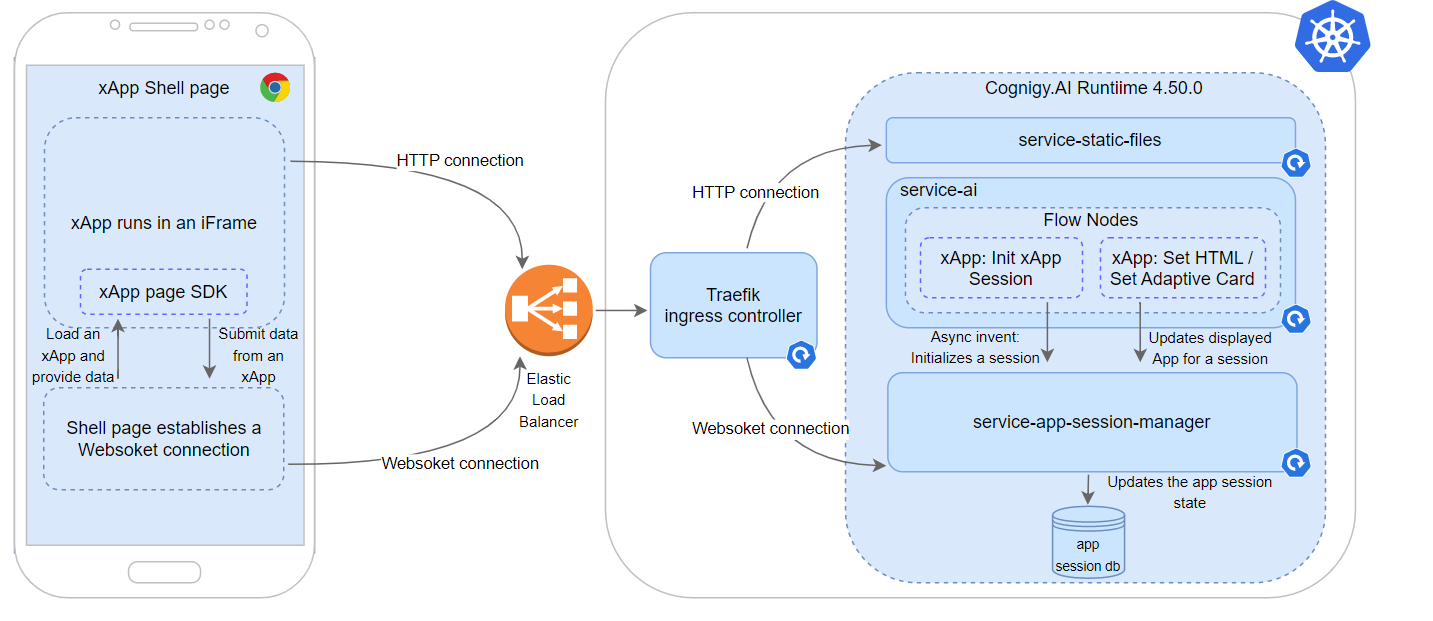
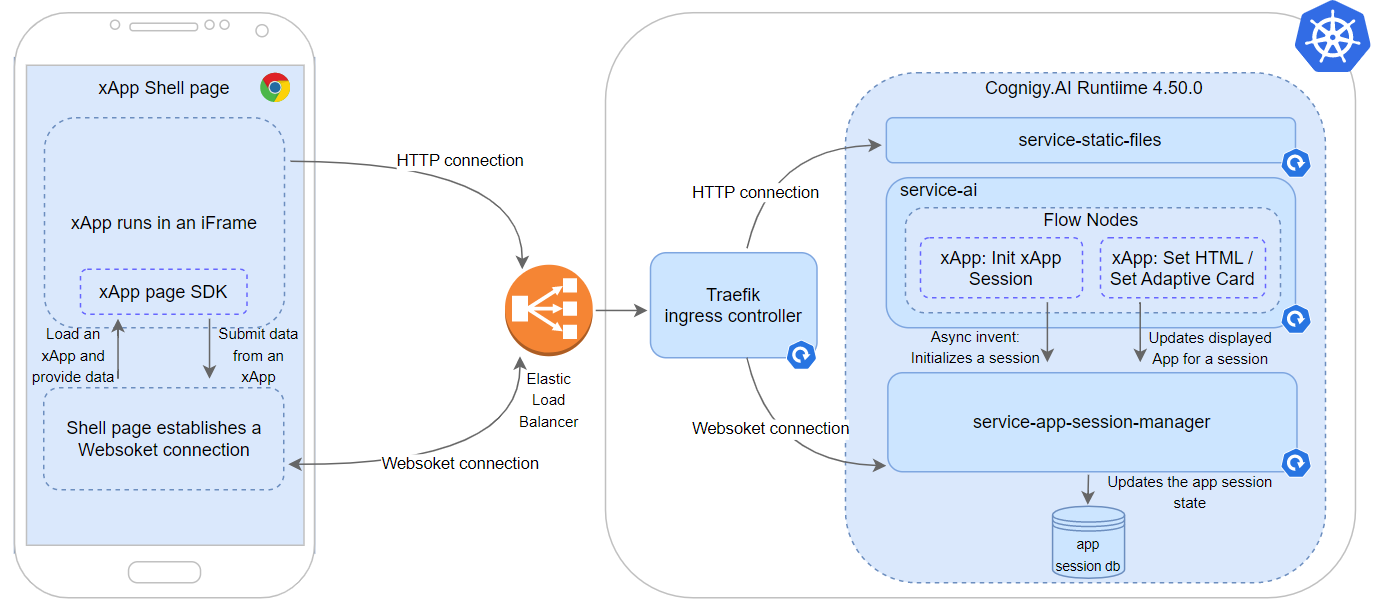
updated arch + unhided docs

diff --git a/docs/en/docs/ai/xApp/architecture.md b/docs/en/docs/ai/xApp/architecture.md
@@ -8,7 +8,9 @@ hidden: true
 
 ## xApp Deployment
 
-The xApp architecture based on Kubernetes ensures that each xApp is deployed as a containerized application, providing flexibility and scalability to handle changes in traffic and workload demands. With Kubernetes, xApps can be easily scaled up or down based on user demand, ensuring a consistent level of performance and availability.
+The xApp architecture based on Kubernetes ensures that each xApp is deployed as a containerized application, providing flexibility and scalability to handle changes in traffic and workload demands.
+
+The diagram below illustrates the process when the xApp Shell Page loads its assets (HTML/CSS/JS) by requesting static files via HTTP/HTTPs 1.1 requests to `service-static-files` and establishes a WebSocket or Socket.io connection to `serviceapp-session-manager` to retrieve information about app sessions. This information includes an async event to initialize an app session, which creates a unique URL, and specifies which app will be displayed in a specific app session. The Elastic Load Balancer helps distribute incoming traffic, while Traefik dynamically routes traffic to backend servers based on specific requirements. The `serviceapp-session-manager` updates the app session state in the App Session DB, and the WebSocket transfers data to the Shell page, which loads xApps and provides data to the SDK.
 
 <figure>
     <img class="image-center" src="{{config.site_url}}ai/images/xApp/architecture.png" width="100%" />

diff --git a/docs/en/docs/ai/xApp/xApp.md b/docs/en/docs/ai/xApp/xApp.md
@@ -1,0 +1,13 @@
+---
+title: "xApp"
+slug: "xApp"
+hidden: true
+---
+
+# xApp 
+
+- [Overview](overview.md)
+- [Supported browsers](supported-browsers.md)
+- [Architecture](architecture.md)
+- [Tokens](tokens.md)
+- [API](api.md)
